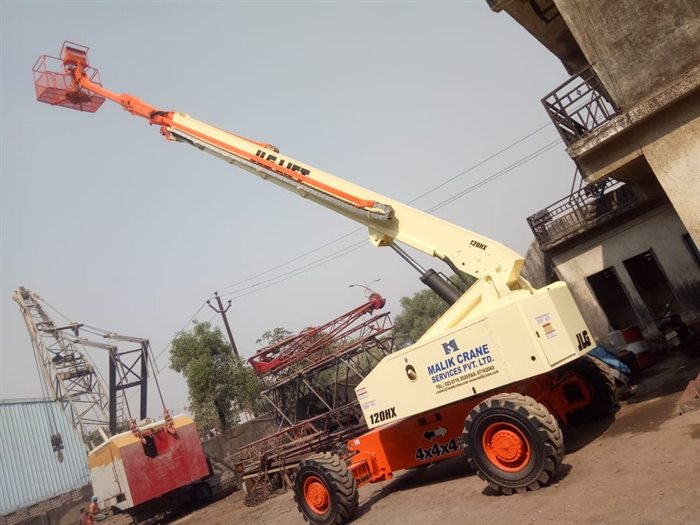
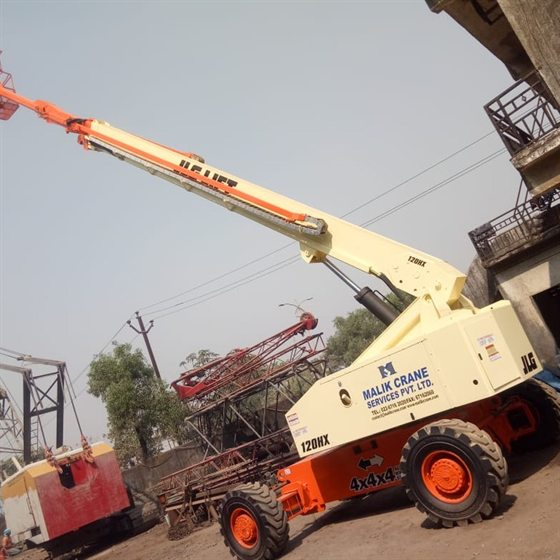
Crop the product photos to true 280px squares
Measured the mockup rather than eyeballing it: the photos are 280px wide
and fill about 95% of the panel's inner width. The page had drifted to
300px photos inside a 1400px card, so they filled only 66% and floated in
empty space - that gap was what read as unbalanced.

- The seven product images are now square files, centre-cropped with a
  focal bias so each machine stays in frame, at 560x560 for 2x displays.
  No CSS cropping and no focal-point classes remain.
- Card back to 1060px so three 280px photos fill it as the mockup does.
- Trio gap 10px, pair gap 58px, both taken from the mockup.

Two dedicated square crops were added for the truck cranes so the home
page hero and carousel keep their original framing.

Verified by measuring the render: all five photos are exactly 280x280.

diff --git a/products.html b/products.html
@@ -47,17 +47,17 @@
           <figure>
             <img src="images/fleet-terex-crawler-crane.jpg"
                  alt="Terex lattice boom crawler crane in Malik Crane Services livery on a coastal site"
-                 width="525" height="700" loading="lazy">
+                 width="560" height="560" loading="lazy">
           </figure>
           <figure>
-            <img class="crop-right" src="images/fleet-crawler-linkbelt.jpg"
+            <img src="images/fleet-crawler-linkbelt.jpg"
                  alt="Link-Belt LS-518 crawler crane handling wind turbine components in an open field"
-                 width="700" height="315" loading="lazy">
+                 width="560" height="560" loading="lazy">
           </figure>
           <figure>
             <img src="images/fleet-crawler-tata.jpg"
                  alt="TATA 955 ALC crawler crane, 75 tonne safe working load, in Malik Crane Services livery"
-                 width="700" height="525" loading="lazy">
+                 width="560" height="560" loading="lazy">
           </figure>
         </div>
       </section>
@@ -75,14 +75,14 @@
 
         <div class="panel__media panel__media--2">
           <figure>
-            <img class="crop-lower" src="images/hero-truck-crane.jpg"
+            <img src="images/fleet-truck-crane-yard.jpg"
                  alt="Grove hydraulic telescopic boom truck crane parked at a yard"
-                 width="595" height="1320" loading="lazy">
+                 width="560" height="560" loading="lazy">
           </figure>
           <figure>
-            <img class="crop-bottom" src="images/project-grove-truck-crane.jpg"
+            <img src="images/fleet-truck-crane-site.jpg"
                  alt="Grove truck crane with boom extended, lifting a red steel gantry at a construction site"
-                 width="323" height="700" loading="lazy">
+                 width="560" height="560" loading="lazy">
           </figure>
         </div>
       </section>
@@ -102,12 +102,12 @@
           <figure>
             <img src="images/fleet-boom-lift-extended.jpg"
                  alt="JLG 120HX boom lift with the boom extended and work platform raised"
-                 width="700" height="525" loading="lazy">
+                 width="560" height="560" loading="lazy">
           </figure>
           <figure>
             <img src="images/fleet-boom-lift-stowed.jpg"
                  alt="JLG 120HX four-wheel-drive boom lift in Malik Crane Services livery, boom stowed"
-                 width="700" height="525" loading="lazy">
+                 width="560" height="560" loading="lazy">
           </figure>
         </div>
 

diff --git a/css/style.css b/css/style.css
@@ -414,10 +414,10 @@ p:last-child { margin-bottom: 0; }
 .page--tinted { background: var(--card); }
 .page--tinted .site-header { background: var(--card); }
 
-/* Products runs wider than the rest of the site so the photographs have
-   room to breathe. */
+/* Card width chosen so three 280px photos fill it the way the mockup does
+   (~95% of the panel's inner width) rather than floating in empty space. */
 .products {
-  max-width: 1400px;
+  max-width: 1060px;
   display: flex;
   flex-direction: column;
   gap: clamp(1.5rem, 4vw, 2.25rem);
@@ -470,32 +470,28 @@ p:last-child { margin-bottom: 0; }
   width: 100%;
 }
 
+/* The files themselves are square, so no CSS cropping is involved — every
+   photo is the same shape and the same size, everywhere on the page. */
 .panel__media img {
   width: 100%;
-  aspect-ratio: 20 / 21;
+  aspect-ratio: 1 / 1;
   height: auto;
   object-fit: cover;
-  border-radius: 6px;
+  border-radius: 4px;
   background: var(--card);
 }
-
-/* A square-ish cell crops the very wide and very tall originals hard, so
-   nudge the focal point where a centre crop would cut the machine. */
-.panel__media img.crop-right  { object-position: 62% center; }
-.panel__media img.crop-left   { object-position: 34% center; }
-.panel__media img.crop-lower  { object-position: center 62%; }
-.panel__media img.crop-bottom { object-position: center 74%; }
 
 .panel__cta { margin-top: clamp(1.75rem, 4vw, 2.5rem); }
 
 @media (min-width: 620px) {
   .panel__media--3,
-  .panel__media--2 { grid-template-columns: repeat(2, minmax(0, 300px)); }
+  .panel__media--2 { grid-template-columns: repeat(2, 280px); }
 }
 
 @media (min-width: 900px) {
-  .panel__media--3 { grid-template-columns: repeat(3, minmax(0, 300px)); }
-  .panel__media--2 { grid-template-columns: repeat(2, minmax(0, 300px)); }
+  .panel__media--3 { grid-template-columns: repeat(3, 280px); gap: 10px; }
+  /* The mockup sets the pairs slightly further apart than the trio */
+  .panel__media--2 { grid-template-columns: repeat(2, 280px); gap: 58px; }
 }
 
 /* --------------------------------------------------------------------------

diff --git a/index.html b/index.html
@@ -148,7 +148,7 @@
               <img src="images/project-grove-truck-crane.jpg" alt="Grove truck crane lifting a red steel gantry at a construction site" width="323" height="700" loading="lazy">
             </div>
             <div class="carousel__item">
-              <img src="images/fleet-terex-crawler-crane.jpg" alt="Terex crawler crane in Malik Crane Services livery on a coastal site" width="525" height="700" loading="lazy">
+              <img src="images/fleet-terex-crawler-crane.jpg" alt="Terex crawler crane in Malik Crane Services livery on a coastal site" width="560" height="560" loading="lazy">
             </div>
             <div class="carousel__item">
               <img src="images/fleet-heavy-duty-crawler-crane.jpg" alt="Heavy duty mechanical crawler crane with lattice boom" width="1200" height="900" loading="lazy">
